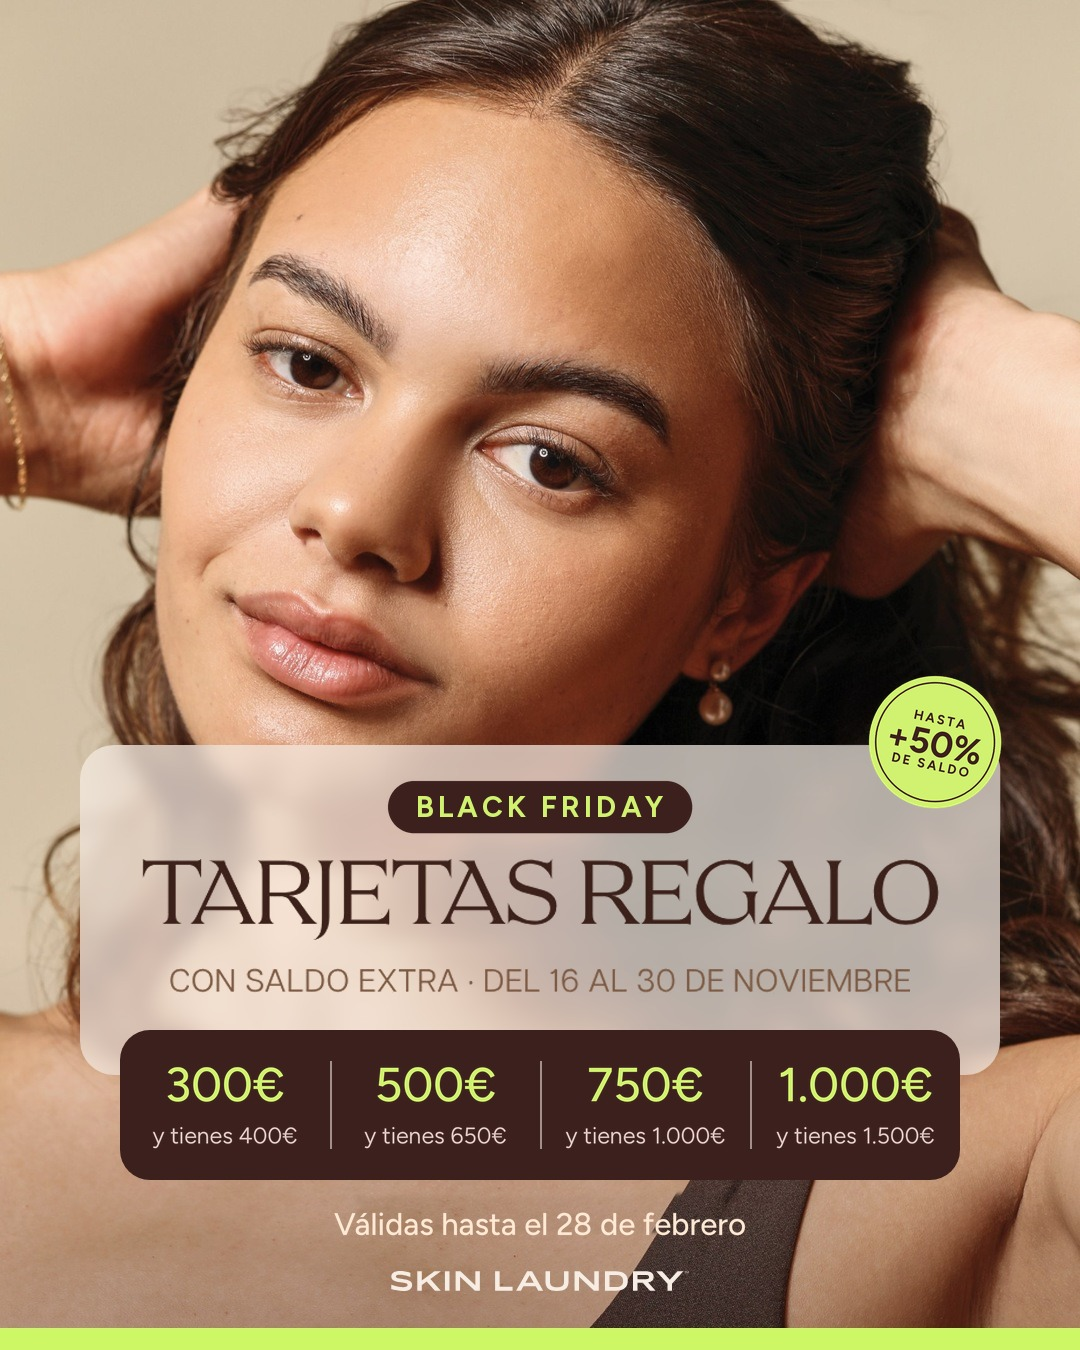
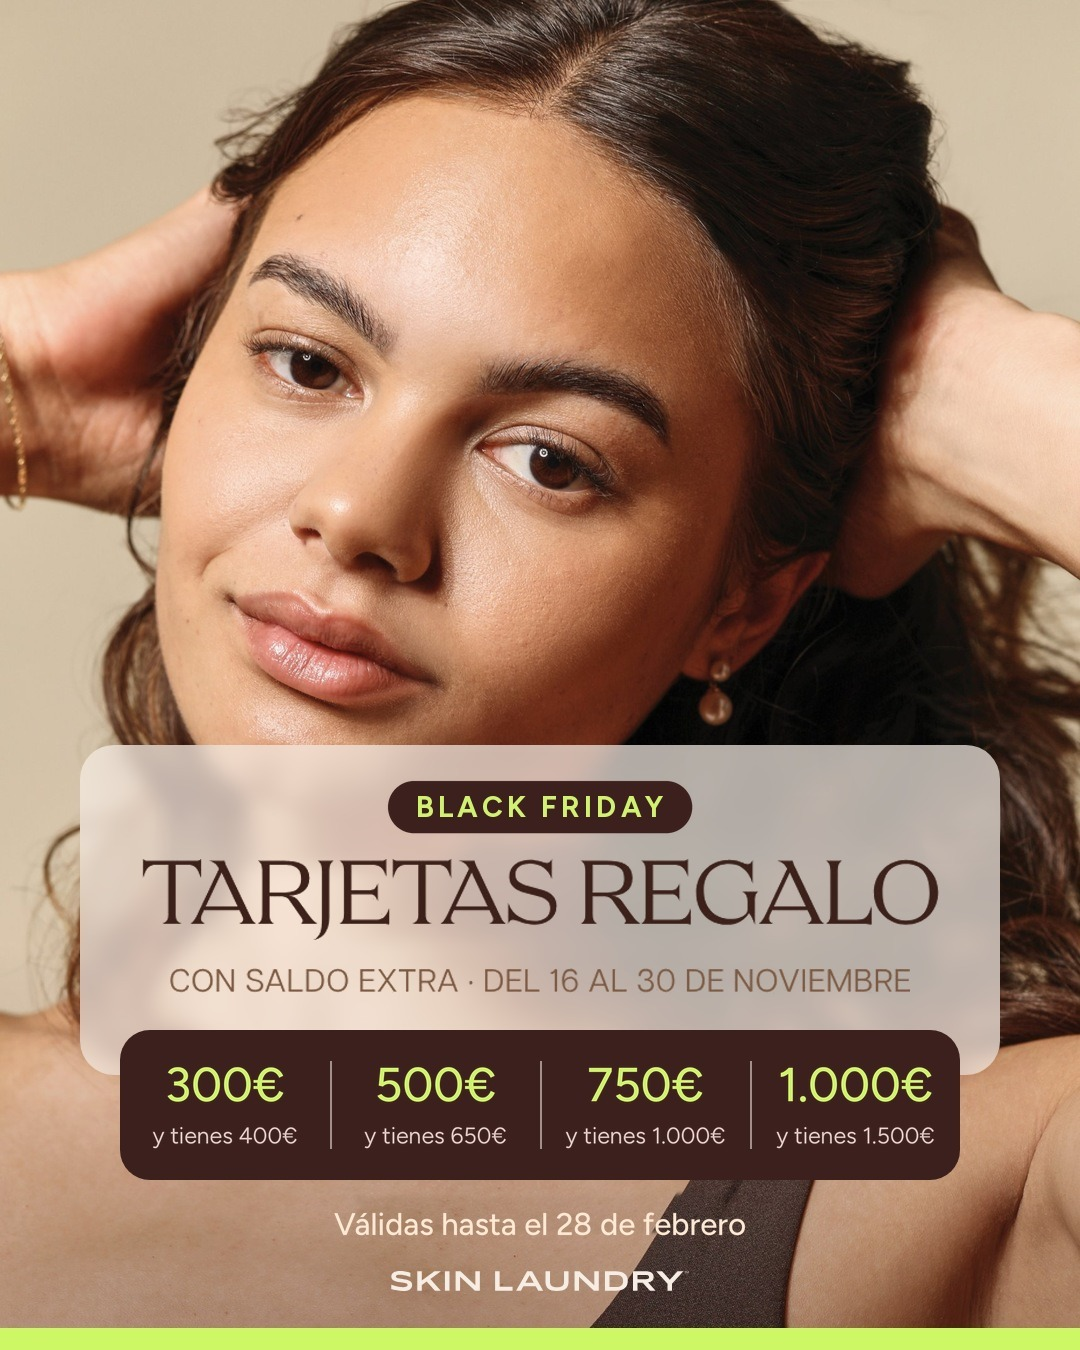
Día 18: Black Friday sin el sello del +50%
Claude-Session: https://claude.ai/code/session_01JZ4qrB4vBJCM1LriYw1bZU

Changed region(s): [[0.7944, 0.4978, 0.9472, 0.6222]]

diff --git a/public/pitch/skin-laundry-calendario/noviembre/index.html b/public/pitch/skin-laundry-calendario/noviembre/index.html
@@ -729,8 +729,8 @@ Siempre empieza con una consulta previa con nuestros médicos. Puedes pedirla de
   pieza:"Tarjetas regalo con valor extra",
   base:"Excel 2025: Black Friday · actualización de Carlota (30/10): tramos, venta del 16 al 30/11 y validez hasta el 28/02", cta:"Reserva antes de que acabe",
   nota:"Foto de modelo: confirmar que es de Canto o del shooting con derechos",
-  media:"/pitch/skin-laundry-calendario/noviembre/img/d18_bf_opB.jpg?v=11121400", estado:"listo",
-  idea:["Estilo promo de la marca: panel crema con etiqueta chocolate «Black Friday», píldora chocolate de precios y sello redondo lima «hasta +50% de saldo»","Destaca lo que pagas: 300 € y tienes 400 €, 500 € y tienes 650 €, 750 € y tienes 1.000 €, 1.000 € y tienes 1.500 €"],
+  media:"/pitch/skin-laundry-calendario/noviembre/img/d18_bf_opB.jpg?v=11161130", estado:"listo",
+  idea:["Estilo promo de la marca: panel crema con etiqueta chocolate «Black Friday», píldora chocolate de precios","Destaca lo que pagas: 300 € y tienes 400 €, 500 € y tienes 650 €, 750 € y tienes 1.000 €, 1.000 € y tienes 1.500 €"],
   story:["Story de diseño propio","Enlace a añadir desde Instagram: Reserva antes de que acabe"],
   copy:`Este Black Friday, las tarjetas regalo vienen con saldo extra.
 Pagas 300 € y tienes 400 €.
